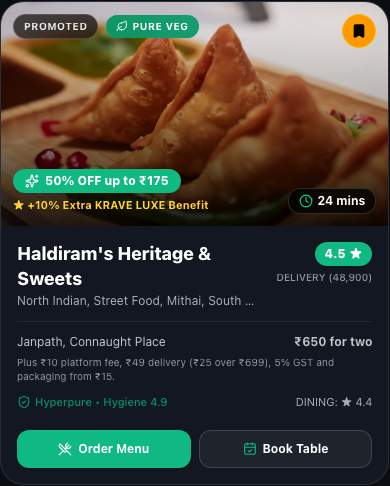
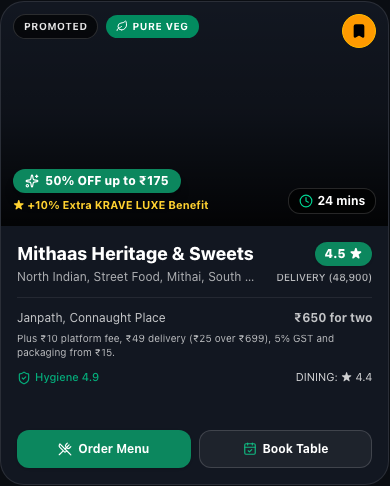
fix: no real licence numbers or Zomato sub-brands in the public catalog
Each fictional restaurant showed a 14-digit FSSAI licence in the real format,
attributing a regulator's id to a business that does not exist. They are now
KRV-DEMO ids shown as a demo licence. The listing card no longer says Hyperpure,
and dining offers say "Member 10%" rather than Gold, since the membership name
follows the chosen theme. The docs screenshots are regenerated to match.

diff --git a/src/data/zomatoReconstructedData.ts b/src/data/zomatoReconstructedData.ts
@@ -361,7 +361,7 @@ export const RESTAURANTS_DATA: RestaurantEntity[] = [
     pureVeg: true,
     hygieneRating: "4.9 / 5 Excellent",
     hyperpureVerified: true,
-    fssaiLicense: "10013011001264",
+    fssaiLicense: "KRV-DEMO-001",
     modes: ["delivery", "dineout"],
     collectionIds: [307111, 91202],
     offers: [
@@ -399,7 +399,7 @@ export const RESTAURANTS_DATA: RestaurantEntity[] = [
     openingHours: "9:00 AM – 11:30 PM",
     isOpen: true,
     modifierGroups: SHARED_MODIFIER_GROUPS,
-    highlights: ["100% Pure Vegetarian", "Desi Ghee Preparations", "Live Chaat Counter", "FSSAI Gold Hygiene"],
+    highlights: ["100% Pure Vegetarian", "Desi Ghee Preparations", "Live Chaat Counter", "Top Hygiene Rating"],
     diningSlots: [
       { time: "12:30 PM", mealType: "Lunch", discountText: "15% OFF", seatsLeft: 8 },
       { time: "01:30 PM", mealType: "Lunch", discountText: "15% OFF", seatsLeft: 5 },
@@ -563,7 +563,7 @@ export const RESTAURANTS_DATA: RestaurantEntity[] = [
     pureVeg: false,
     hygieneRating: "4.8 / 5 Excellent",
     hyperpureVerified: true,
-    fssaiLicense: "10019011006421",
+    fssaiLicense: "KRV-DEMO-002",
     modes: ["dineout", "delivery", "nightlife"],
     collectionIds: [71343, 307074],
     offers: [
@@ -605,8 +605,8 @@ export const RESTAURANTS_DATA: RestaurantEntity[] = [
     diningSlots: [
       { time: "01:00 PM", mealType: "Lunch", discountText: "20% OFF", seatsLeft: 10 },
       { time: "02:30 PM", mealType: "Lunch", discountText: "20% OFF", seatsLeft: 7 },
-      { time: "08:00 PM", mealType: "Dinner", discountText: "20% OFF + Gold 10%", seatsLeft: 4 },
-      { time: "09:30 PM", mealType: "Dinner", discountText: "20% OFF + Gold 10%", seatsLeft: 3 },
+      { time: "08:00 PM", mealType: "Dinner", discountText: "20% OFF + Member 10%", seatsLeft: 4 },
+      { time: "09:30 PM", mealType: "Dinner", discountText: "20% OFF + Member 10%", seatsLeft: 3 },
     ],
     menus: [
       {
@@ -712,7 +712,7 @@ export const RESTAURANTS_DATA: RestaurantEntity[] = [
     pureVeg: false,
     hygieneRating: "4.9 / 5 Excellent",
     hyperpureVerified: true,
-    fssaiLicense: "10016011003812",
+    fssaiLicense: "KRV-DEMO-003",
     modes: ["dineout", "delivery", "nightlife"],
     collectionIds: [71343, 307074, 91202],
     offers: [
@@ -753,8 +753,8 @@ export const RESTAURANTS_DATA: RestaurantEntity[] = [
     highlights: ["Molecular Gastronomy", "Award-Winning Cocktails", "Chef's Tasting Menu"],
     diningSlots: [
       { time: "01:00 PM", mealType: "Lunch", discountText: "15% OFF", seatsLeft: 6 },
-      { time: "07:45 PM", mealType: "Dinner", discountText: "15% OFF + Gold 10%", seatsLeft: 4 },
-      { time: "09:15 PM", mealType: "Dinner", discountText: "15% OFF + Gold 10%", seatsLeft: 2 },
+      { time: "07:45 PM", mealType: "Dinner", discountText: "15% OFF + Member 10%", seatsLeft: 4 },
+      { time: "09:15 PM", mealType: "Dinner", discountText: "15% OFF + Member 10%", seatsLeft: 2 },
     ],
     menus: [
       {
@@ -854,7 +854,7 @@ export const RESTAURANTS_DATA: RestaurantEntity[] = [
     pureVeg: false,
     hygieneRating: "5.0 / 5 Platinum",
     hyperpureVerified: true,
-    fssaiLicense: "10012011000419",
+    fssaiLicense: "KRV-DEMO-004",
     modes: ["dineout", "delivery"],
     collectionIds: [307111],
     offers: [
@@ -997,7 +997,7 @@ export const RESTAURANTS_DATA: RestaurantEntity[] = [
     pureVeg: false,
     hygieneRating: "4.9 / 5 Excellent",
     hyperpureVerified: true,
-    fssaiLicense: "10018011005190",
+    fssaiLicense: "KRV-DEMO-005",
     modes: ["delivery", "dineout", "nightlife"],
     collectionIds: [438, 307074],
     offers: [
@@ -1038,8 +1038,8 @@ export const RESTAURANTS_DATA: RestaurantEntity[] = [
     highlights: ["Tokyo Izakaya Booths", "Fresh Norwegian Salmon", "Handcrafted Dim Sum"],
     diningSlots: [
       { time: "01:15 PM", mealType: "Lunch", discountText: "20% OFF", seatsLeft: 8 },
-      { time: "07:30 PM", mealType: "Dinner", discountText: "20% OFF + Gold 10%", seatsLeft: 5 },
-      { time: "09:00 PM", mealType: "Dinner", discountText: "20% OFF + Gold 10%", seatsLeft: 4 },
+      { time: "07:30 PM", mealType: "Dinner", discountText: "20% OFF + Member 10%", seatsLeft: 5 },
+      { time: "09:00 PM", mealType: "Dinner", discountText: "20% OFF + Member 10%", seatsLeft: 4 },
     ],
     menus: [
       {
@@ -1124,7 +1124,7 @@ export const RESTAURANTS_DATA: RestaurantEntity[] = [
     pureVeg: false,
     hygieneRating: "4.7 / 5 Very Good",
     hyperpureVerified: true,
-    fssaiLicense: "10015011002918",
+    fssaiLicense: "KRV-DEMO-006",
     modes: ["delivery", "dineout", "nightlife"],
     collectionIds: [307111, 91202],
     offers: [
@@ -1250,7 +1250,7 @@ export const RESTAURANTS_DATA: RestaurantEntity[] = [
     pureVeg: false,
     hygieneRating: "5.0 / 5 Platinum",
     hyperpureVerified: true,
-    fssaiLicense: "11220333001920",
+    fssaiLicense: "KRV-DEMO-007",
     modes: ["delivery", "dineout"],
     collectionIds: [91201, 71343],
     offers: [

diff --git a/src/tests/publicBuild.test.ts b/src/tests/publicBuild.test.ts
@@ -1,5 +1,5 @@
 import { afterEach, describe, expect, it, vi } from "vitest";
-import { readFileSync } from "node:fs";
+import { readdirSync, readFileSync } from "node:fs";
 import path from "node:path";
 import { NextRequest } from "next/server";
 import { GET } from "@/app/api/webroutes/[...slug]/route";
@@ -16,12 +16,19 @@ import {
 // Real businesses that earlier builds named. A public deployment must not imply they take
 // orders here. Stable ids such as "ctl_dal_bukhara" stay, so saved carts keep resolving.
 const REAL_BRANDS =
-  /haldiram|bukhara|farzi|lavonne|biryani blues|mount fuji|out of the box|\bITC\b|\baxis\b|zomato/i;
+  /haldiram|bukhara|farzi|lavonne|biryani blues|mount fuji|out of the box|\bITC\b|\baxis\b|zomato|hyperpure|\bgold \d/i;
+// FSSAI licence format: 14 digits, starting 1 (licence) or 2 (registration). A real one would
+// attribute a business's regulatory id to a restaurant that does not exist.
+const LICENCE_NUMBER = /\b[12]\d{13}\b/;
 
 function customerVisibleText(value: unknown): string {
-  return JSON.stringify(value, (key, field) =>
-    key === "id" || /(Id|_id)$/.test(key) ? undefined : field
-  );
+  const strings: string[] = [];
+  JSON.stringify(value, (key, field) => {
+    if (key === "id" || /(Id|_id)$/.test(key)) return undefined;
+    if (typeof field === "string") strings.push(field);
+    return field;
+  });
+  return strings.join("\n");
 }
 
 function get(pathname: string) {
@@ -45,6 +52,7 @@ describe("public build", () => {
       TOP_BRANDS_DATA,
     });
     expect(catalog.match(REAL_BRANDS)).toBeNull();
+    expect(catalog.match(LICENCE_NUMBER)).toBeNull();
   });
 
   it("keeps the reverse-engineering evidence out of production", async () => {
@@ -61,6 +69,14 @@ describe("public build", () => {
     // The import path is internal; any capitalised mention would be rendered or registered.
     expect(source).not.toMatch(/Zomato|zomato_webmcp/);
     expect(source).toMatch(/SHOW_DEVELOPER_INSPECTOR && \(/);
+
+    // The inspector is development-only, so it may name what it inspected.
+    const componentsDir = path.resolve(__dirname, "../components");
+    for (const file of readdirSync(componentsDir).filter((name) => /\.tsx$/.test(name))) {
+      if (file === "ReaInspectorModal.tsx") continue;
+      const text = readFileSync(path.join(componentsDir, file), "utf8");
+      expect(text, file).not.toMatch(/Zomato|Hyperpure|FSSAI #/);
+    }
   });
 });
 

diff --git a/src/components/RestaurantDetailModal.tsx b/src/components/RestaurantDetailModal.tsx
@@ -302,7 +302,7 @@ export function RestaurantDetailModal({
                 </span>
                 <span className="px-2.5 py-0.5 rounded-full text-[11px] font-semibold bg-emerald-500/20 border border-emerald-400/40 text-emerald-300 flex items-center gap-1">
                   <ShieldCheck className="w-3.5 h-3.5" />
-                  FSSAI #{restaurant.fssaiLicense} • Hygiene {restaurant.hygieneRating}
+                  Demo licence {restaurant.fssaiLicense} • Hygiene {restaurant.hygieneRating}
                 </span>
               </div>
               <h2 className="text-2xl sm:text-3xl font-black tracking-tight">

diff --git a/src/components/RestaurantCardV2.tsx b/src/components/RestaurantCardV2.tsx
@@ -199,7 +199,7 @@ export function RestaurantCardV2({
           <div className="mt-2.5 flex items-center justify-between text-[11px] opacity-80">
             <span className="flex items-center gap-1 text-emerald-400 font-medium">
               <ShieldCheck className="w-3.5 h-3.5" />
-              Hyperpure • Hygiene {restaurant.hygieneRating.split(" ")[0]}
+              Hygiene {restaurant.hygieneRating.split(" ")[0]}
             </span>
             <span>
               {secondaryRating.rating_type}: ★ {secondaryRating.rating}
